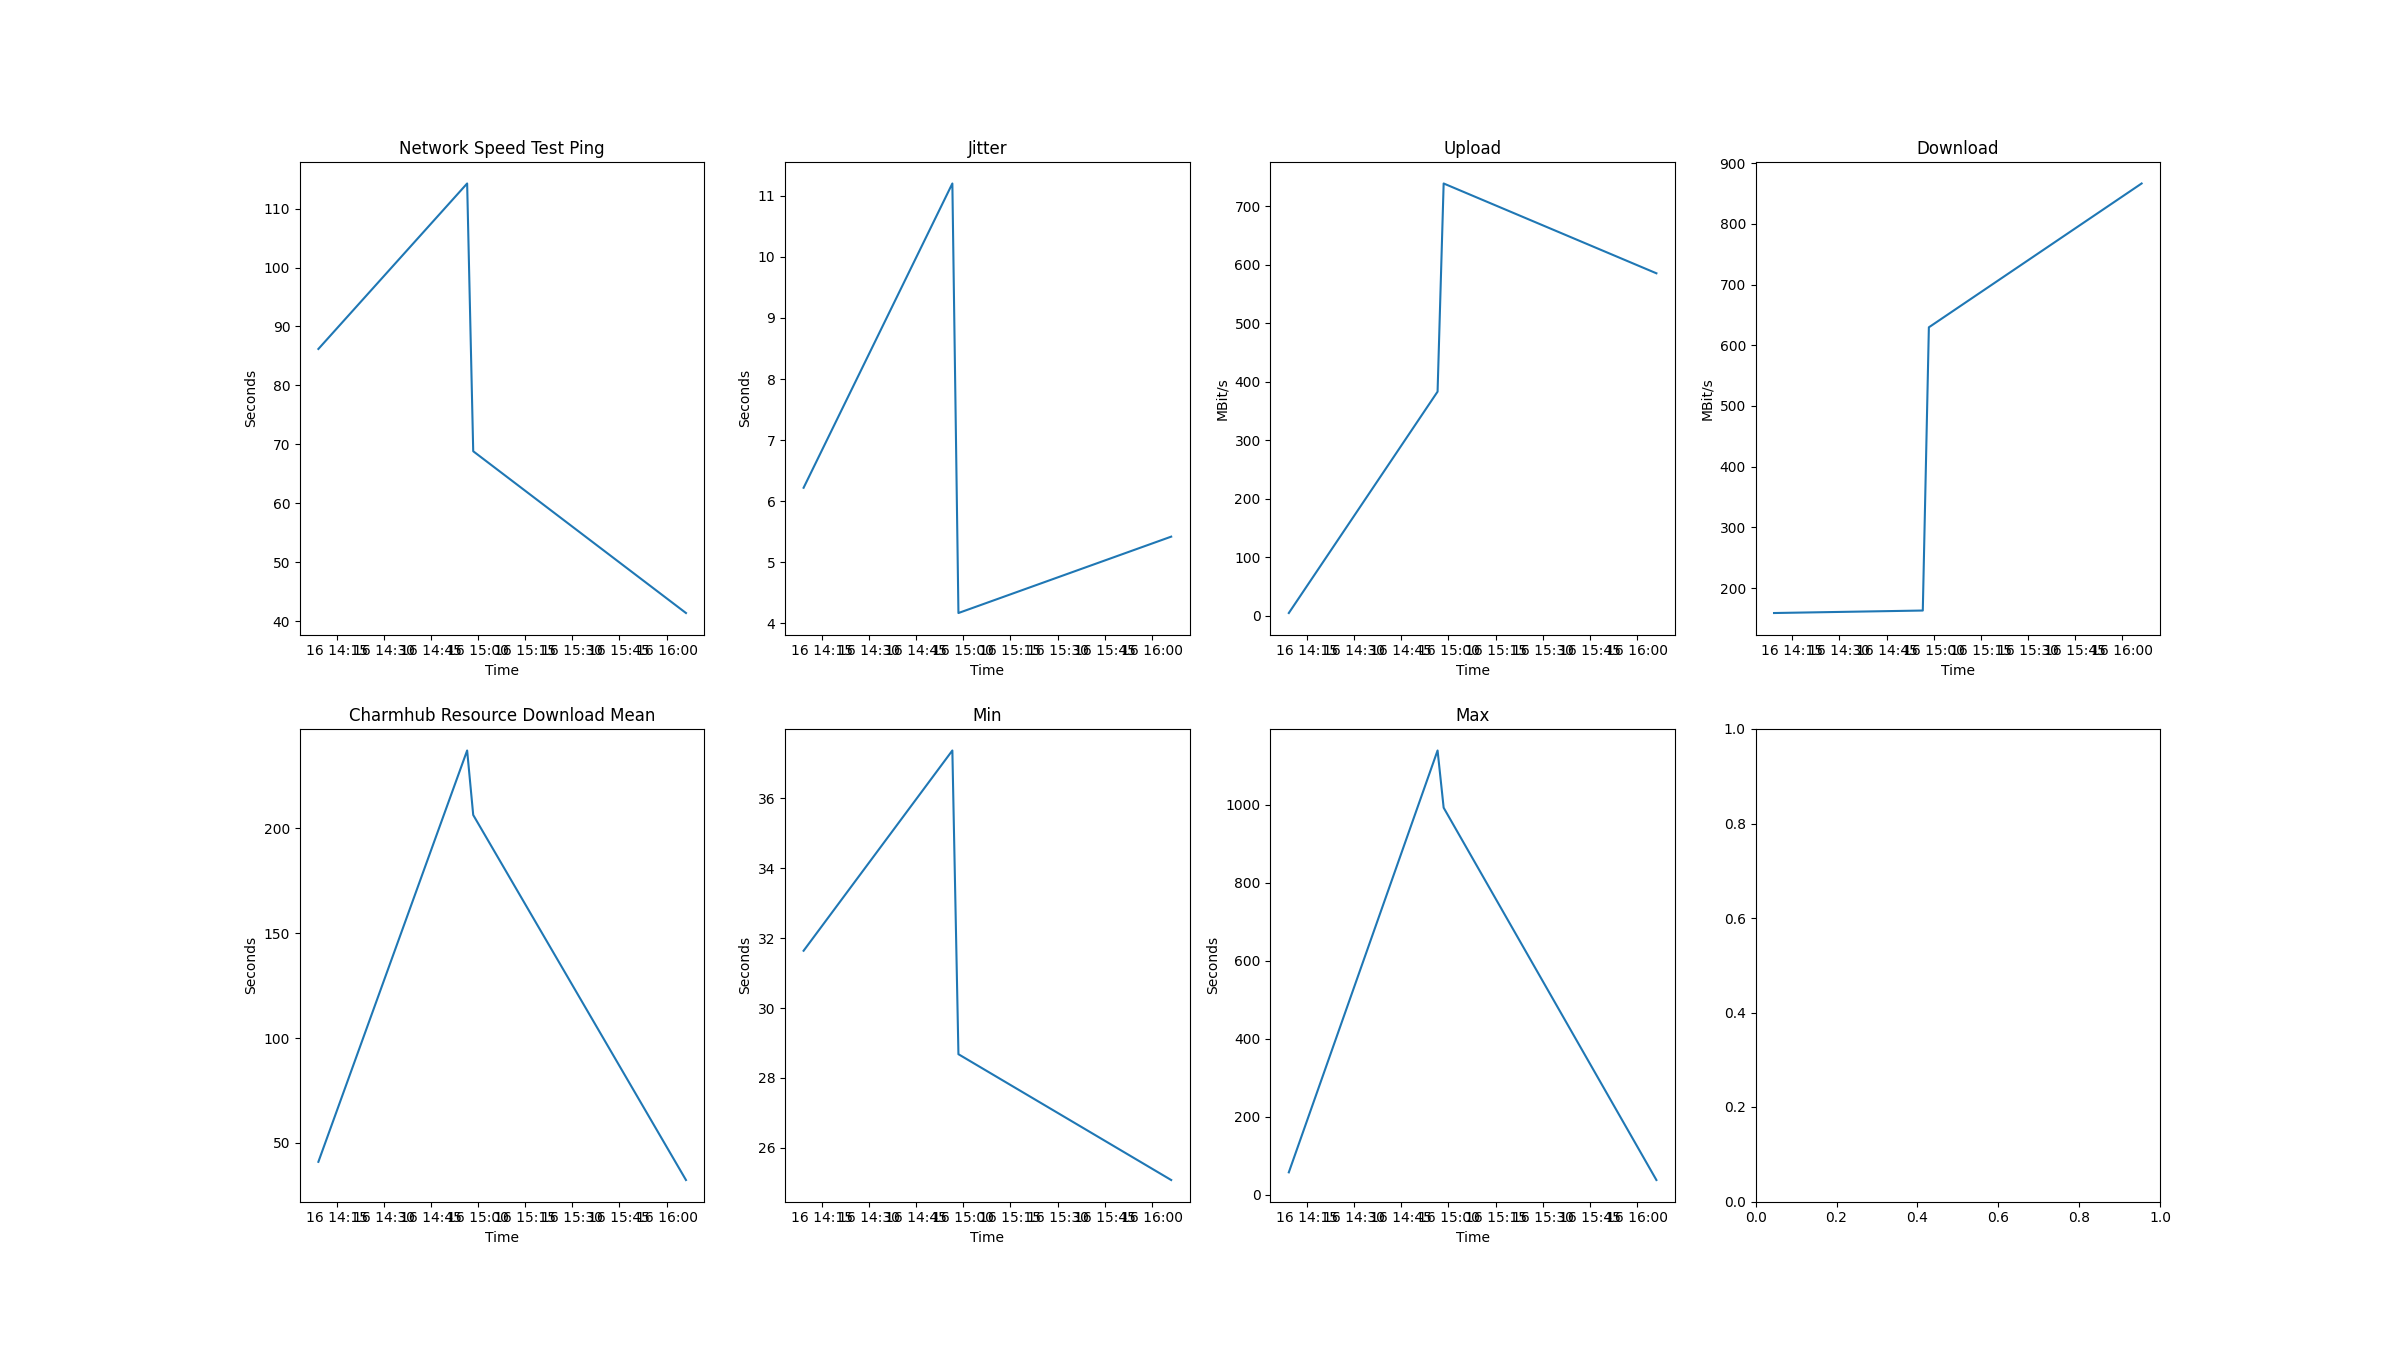
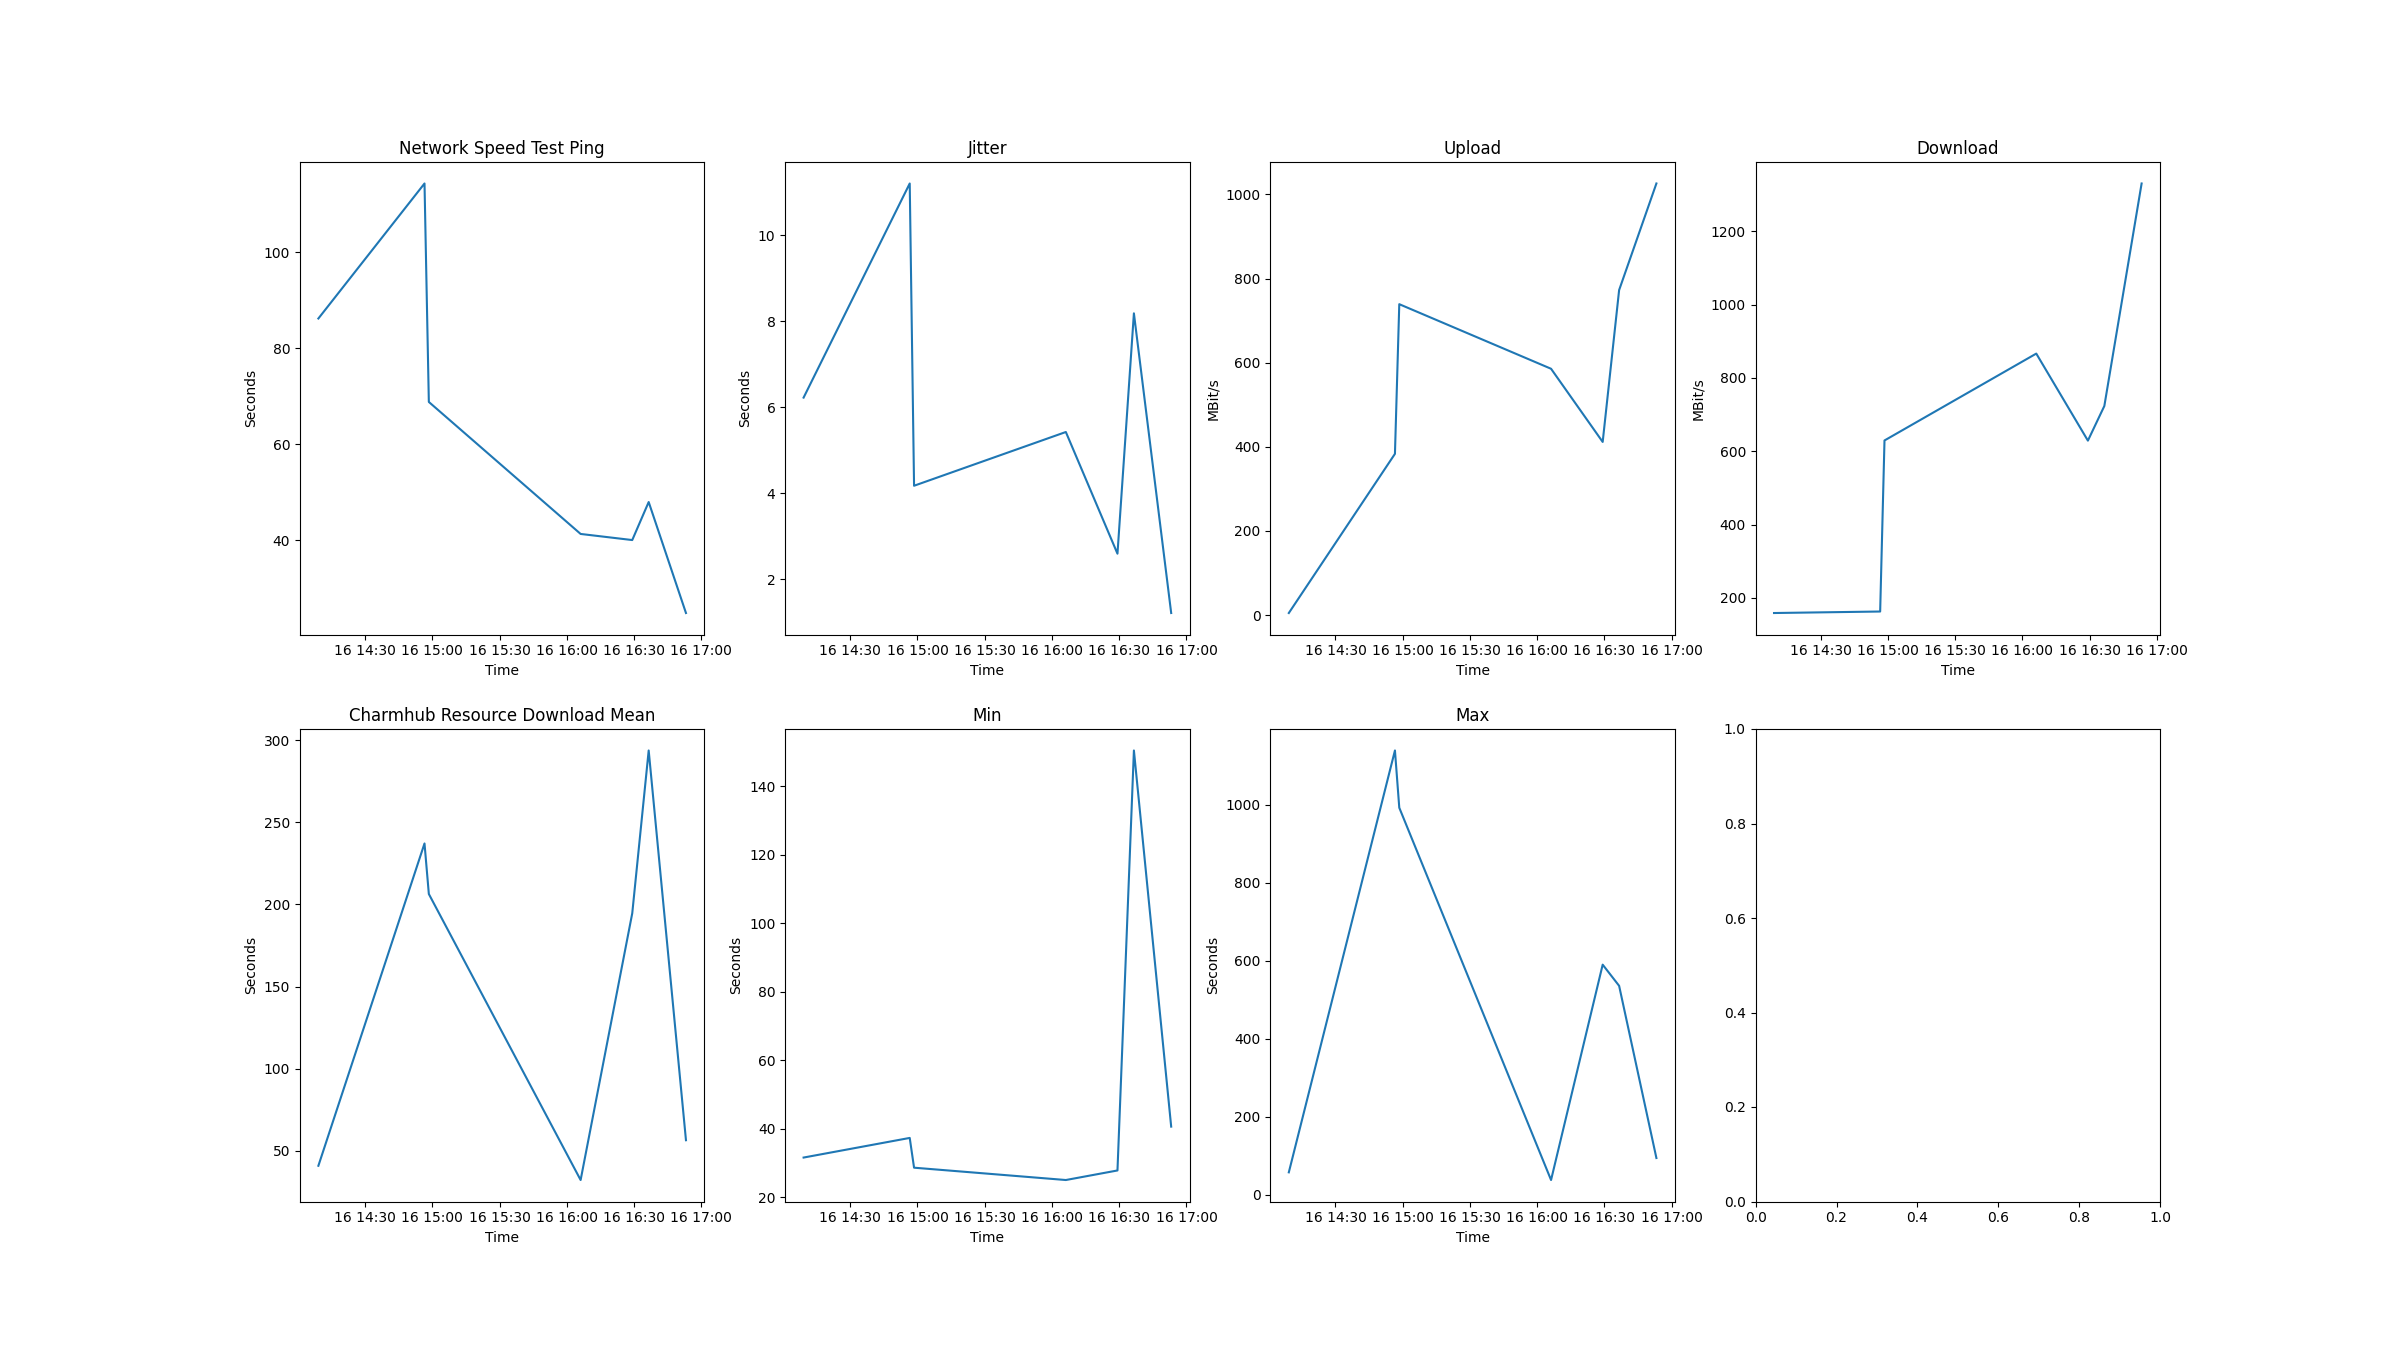
deploy: abf600dd55705e7801cd8580b677754be50f3b51

diff --git a/create_chart.py b/create_chart.py
@@ -8,41 +8,44 @@ run_name = os.getenv("RUN_NAME")
 my_data = pd.read_csv(f"results/v1/{run_name}.csv")
 my_data["time"] = pd.to_datetime(my_data["time"])
 
-plt.subplot(2, 4, 1)
-plt.plot(my_data[time], my_data["network speed test ping (s)"])
-plt.title("Network Speed Test Ping")
-plt.xlabel("Time")
-plt.ylabel("Seconds")
+figure, axis = plt.subplots(2, 4)
 
-plt.subplot(2, 4, 2)
-plt.plot(my_data[time], my_data["jitter (s)"])
-plt.title("Jitter")
-plt.xlabel("Time")
-plt.ylabel("Seconds")
+axis[0, 0].plot(my_data["time"], my_data["network speed test ping (s)"])
+axis[0, 0].set_title("Network Speed Test Ping")
+axis[0, 0].set_xlabel("Time")
+axis[0, 0].set_ylabel("Seconds")
 
-plt.subplot(2, 4, 3)
-plt.plot(my_data[time], my_data["upload (bit/s)"])
-plt.title("Upload")
-plt.xlabel("Time")
-plt.ylabel("MBit/s")
+axis[0, 1].plot(my_data["time"], my_data["jitter (s)"])
+axis[0, 1].set_title("Jitter")
+axis[0, 1].set_xlabel("Time")
+axis[0, 1].set_ylabel("Seconds")
 
-plt.subplot(2, 4, 4)
-plt.plot(my_data[time], my_data["download (bit/s)"])
-plt.title("Download")
-plt.xlabel("Time")
-plt.ylabel("MBit/s")
+axis[0, 2].plot(my_data["time"], my_data["upload (bit/s)"])
+axis[0, 2].set_title("Upload")
+axis[0, 2].set_xlabel("Time")
+axis[0, 2].set_ylabel("MBit/s")
 
-plt.subplot(2, 1, 2)
-plt.plot(my_data[time], my_data["max (s)"], label = "max")
-plt.plot(my_data[time], my_data["charmhub resource download mean (s)"], label = "mean")
-plt.plot(my_data[time], my_data["min (s)"], label = "min")
-plt.legend()
-plt.title("Charmhub Resource Download")
-plt.xlabel("Time")
-plt.ylabel("Seconds")
+axis[0, 3].plot(my_data["time"], my_data["download (bit/s)"])
+axis[0, 3].set_title("Download")
+axis[0, 3].set_xlabel("Time")
+axis[0, 3].set_ylabel("MBit/s")
 
-fig = plt.gcf()
-fig.set_figwidth(1.5 * 16)
-fig.set_figheight(1.5 * 9)
+axis[1, 0].plot(my_data["time"], my_data["charmhub resource download mean (s)"])
+axis[1, 0].set_title("Charmhub Resource Download Mean")
+axis[1, 0].set_xlabel("Time")
+axis[1, 0].set_ylabel("Seconds")
+
+axis[1, 1].plot(my_data["time"], my_data["min (s)"])
+axis[1, 1].set_title("Min")
+axis[1, 1].set_xlabel("Time")
+axis[1, 1].set_ylabel("Seconds")
+
+axis[1, 2].plot(my_data["time"], my_data["max (s)"])
+axis[1, 2].set_title("Max")
+axis[1, 2].set_xlabel("Time")
+axis[1, 2].set_ylabel("Seconds")
+
+figure.set_figwidth(1.5 * 16)
+figure.set_figheight(1.5 * 9)
 plt.savefig(f"results/v1/{run_name}.png")
 
